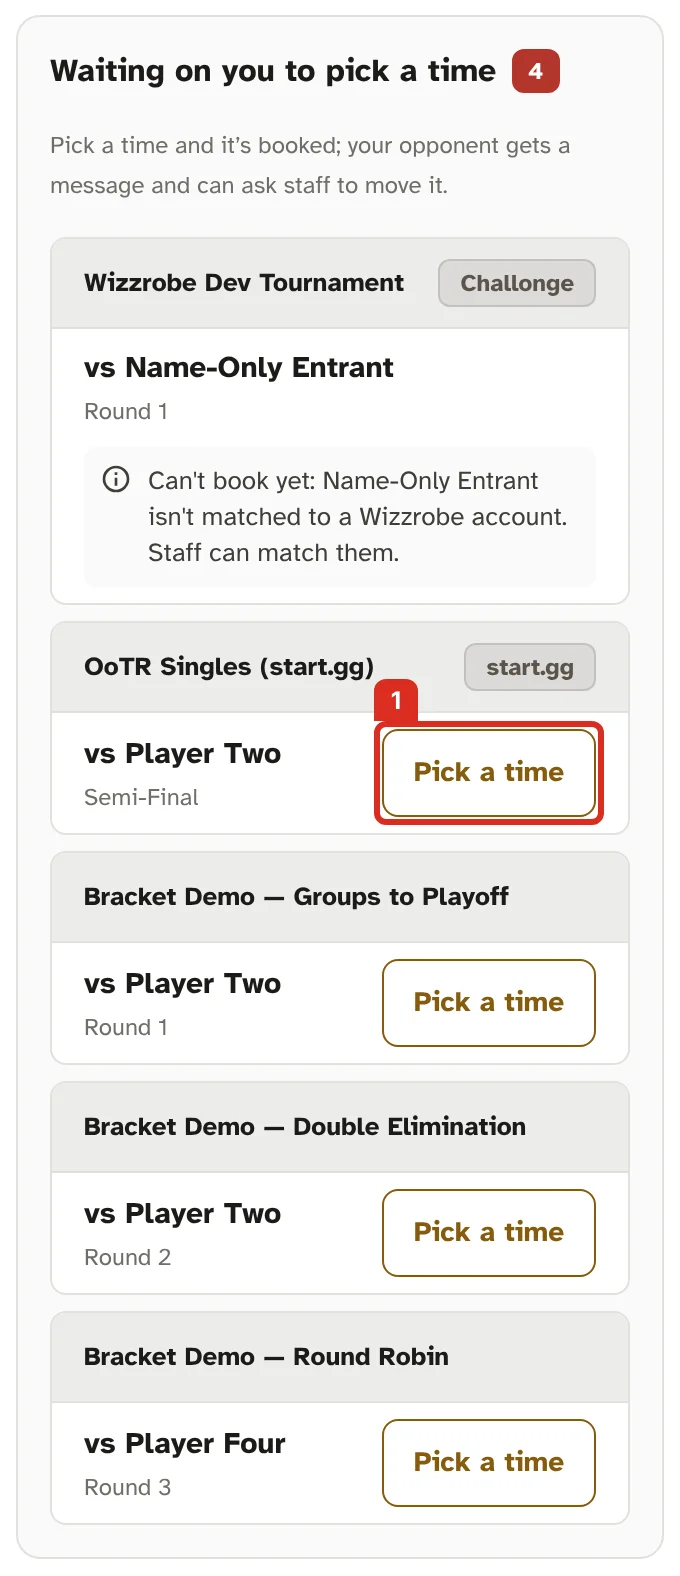
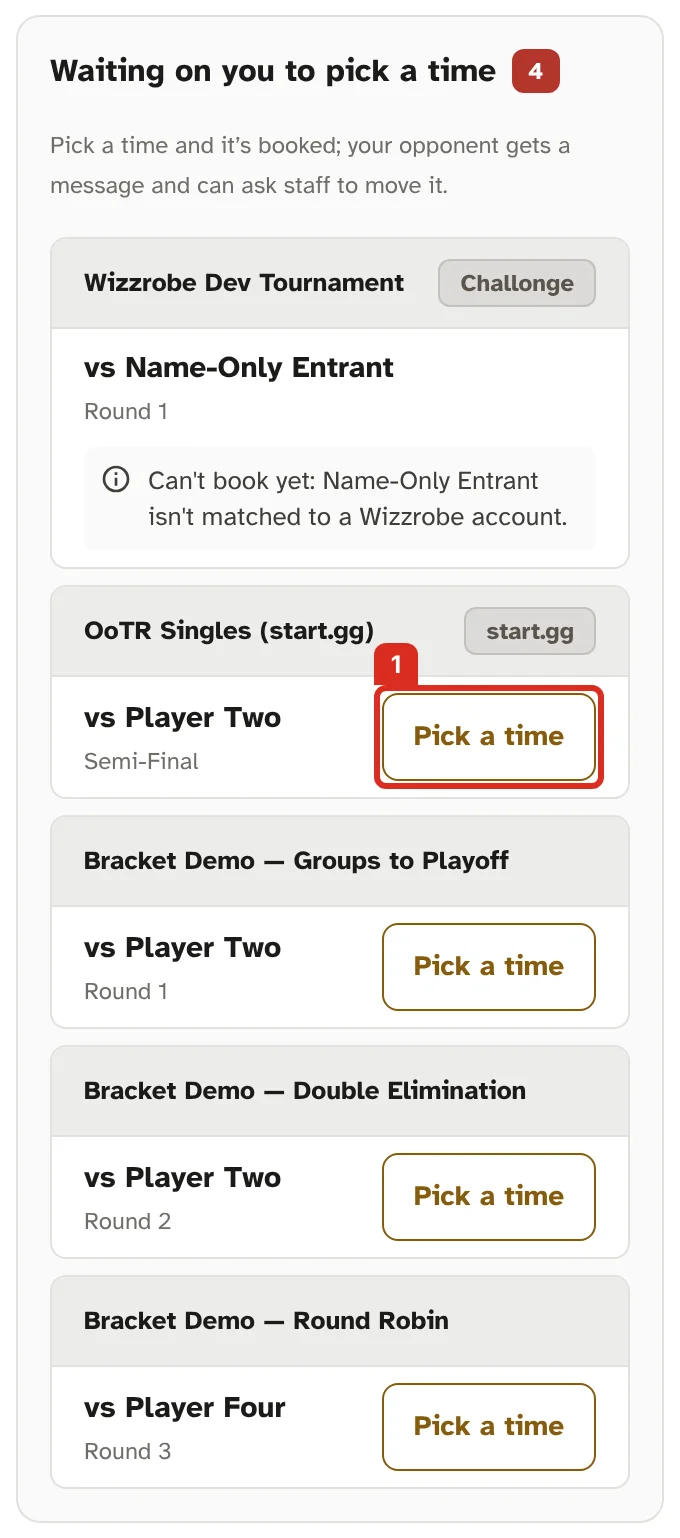
Drop the 'Staff can match them' line from blocked bracket matchups
Claude-Session: https://claude.ai/code/session_01FSAk4VmZjyz6ws6dHf5krF

diff --git a/pages/home_tabs/player.py b/pages/home_tabs/player.py
@@ -456,7 +456,7 @@ async def render_player_dashboard(
                         challonge_round_label(cm.round), do_challonge,
                         blocked=None if opponent_linked else (
                             f"Can't book yet: {opponent_name} isn't matched to a "
-                            "Wizzrobe account. Staff can match them."
+                            "Wizzrobe account."
                         ),
                         window_text=await round_schedule.describe_for_challonge_match(cm),
                     ))

diff --git a/application/help/content/player.md b/application/help/content/player.md
@@ -104,8 +104,7 @@ you do, the matchup drops off your list.
 
 In a Challonge bracket, a matchup has no **Pick a time** button until your
 opponent is matched to a Wizzrobe account, and you'll see the reason in its
-place. Staff can match them by hand. The My Schedule tab shows a count while
-anything is waiting on you.
+place. The My Schedule tab shows a count while anything is waiting on you.
 :::
 
 ![The Waiting on you to pick a time card, listing bracket matchups grouped by tournament, each with a Pick a time button or, for one that can't be booked yet, the reason why, with the first button marked 1](/static/help/player/bracket-schedule-phone.webp "Bracket matchups that still need a time: tap **Pick a time** (1) to book one.")

diff --git a/application/changelog/changes/2026-10-21-booking-blocked-text.md b/application/changelog/changes/2026-10-21-booking-blocked-text.md
@@ -1,0 +1,3 @@
+### Improved
+
+- A bracket matchup you can't book yet now just says your opponent isn't matched to a Wizzrobe account, without the extra line about staff.
